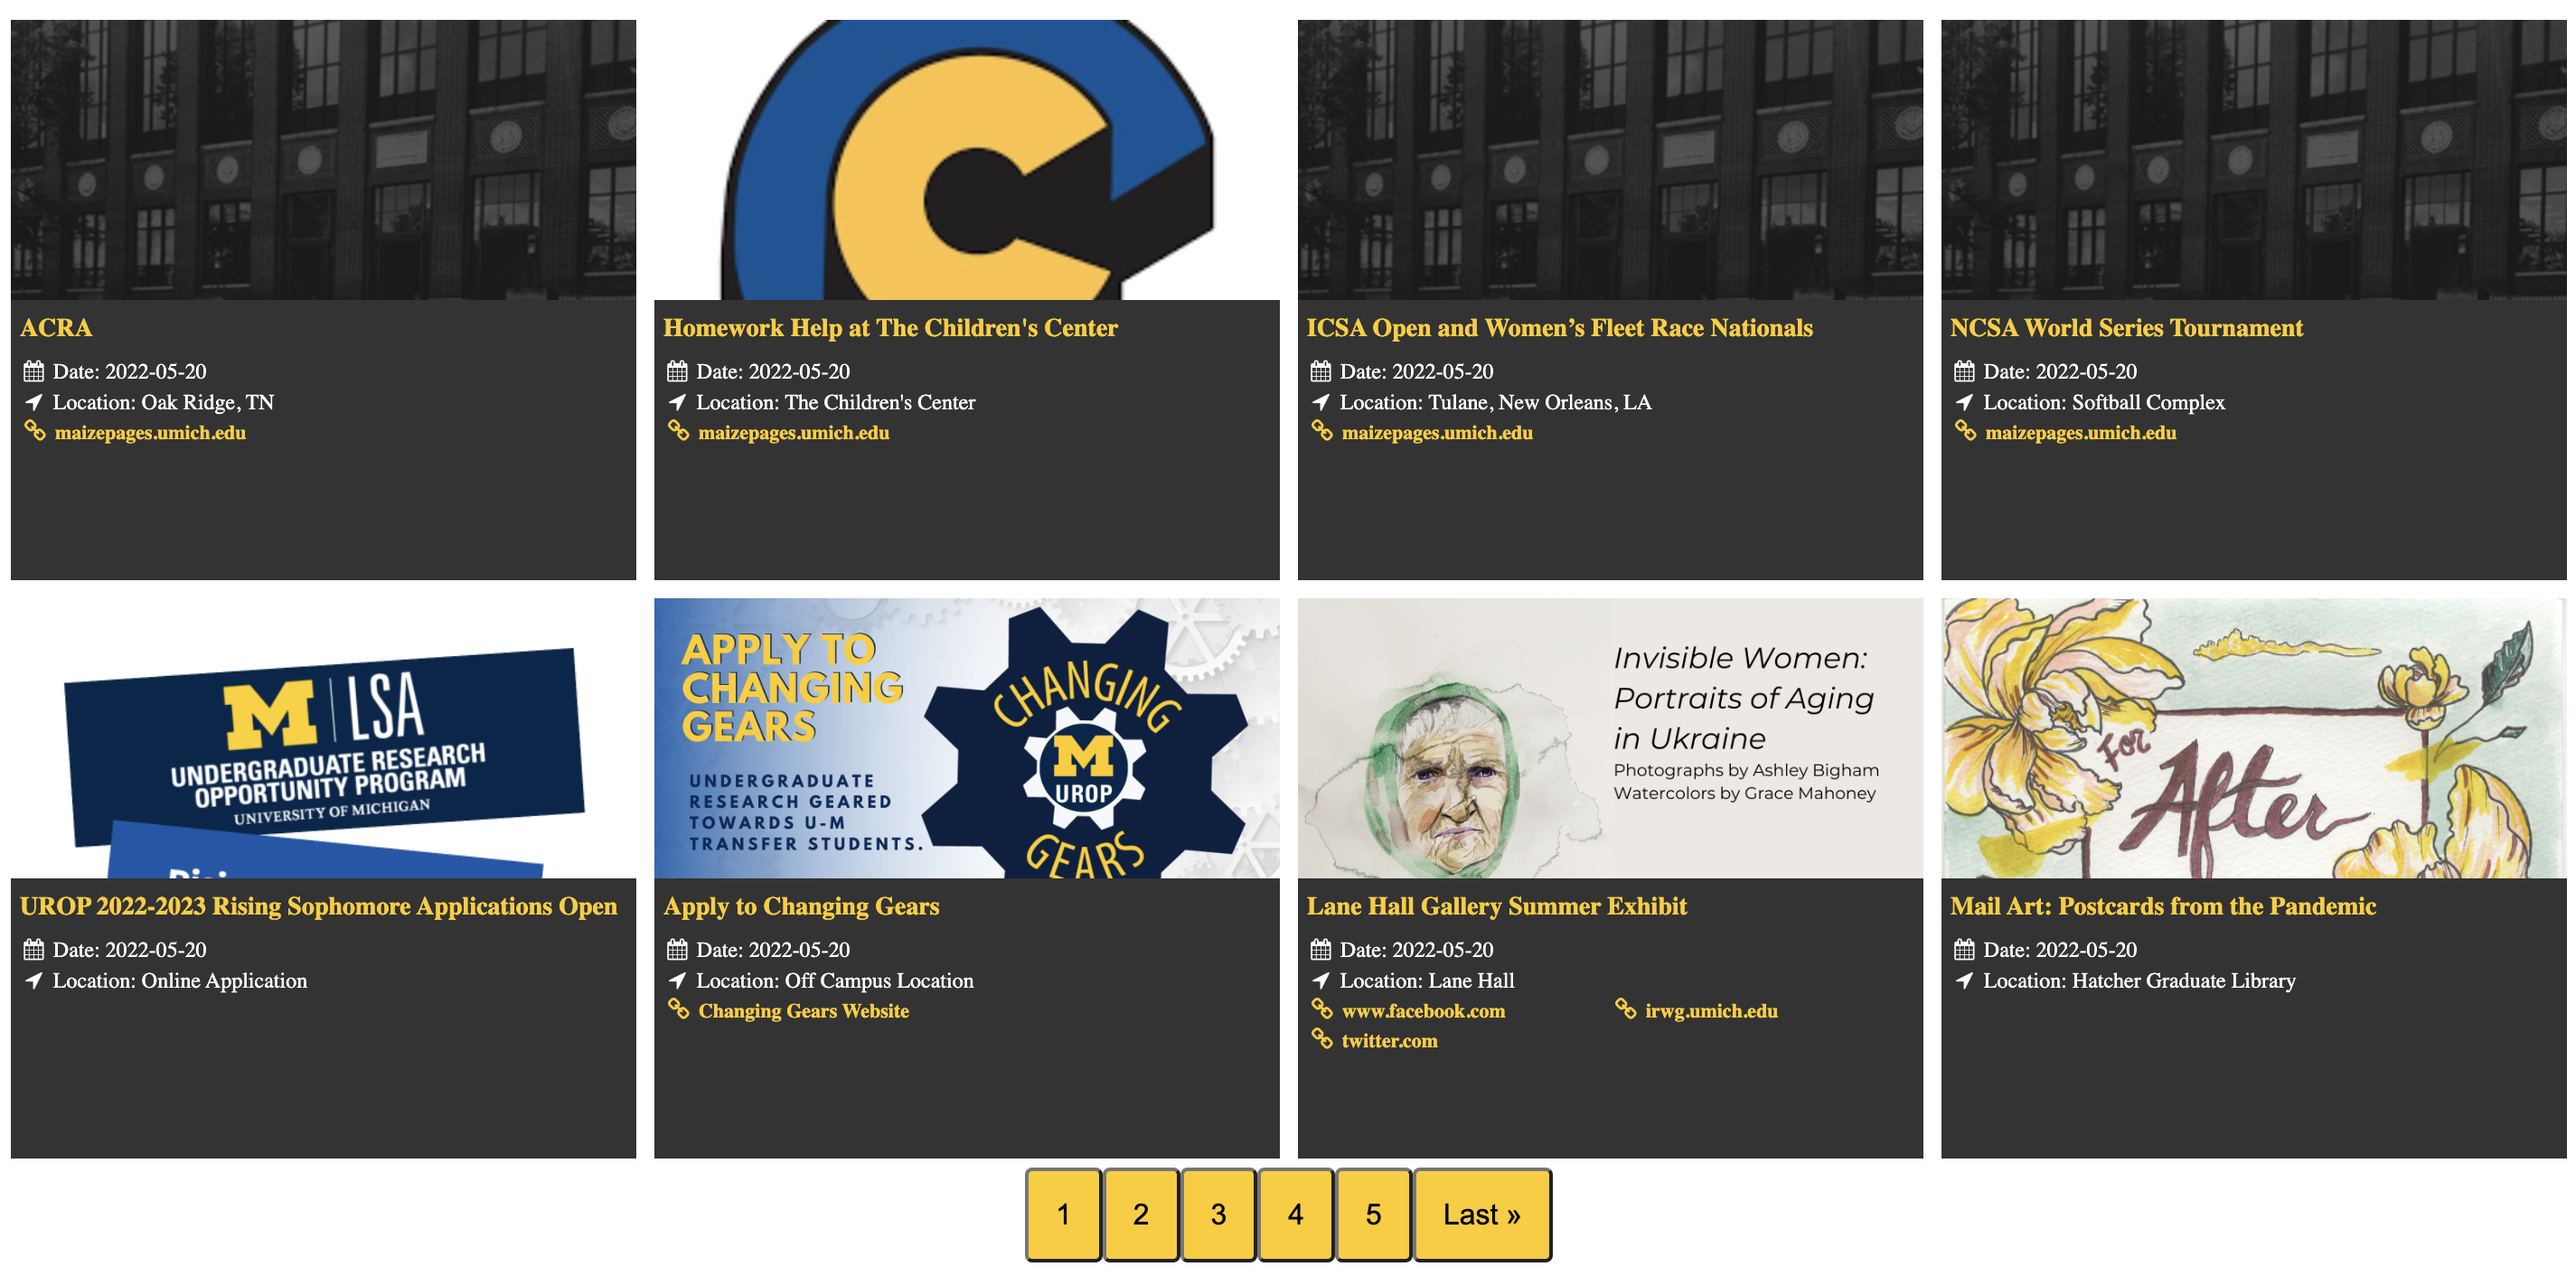
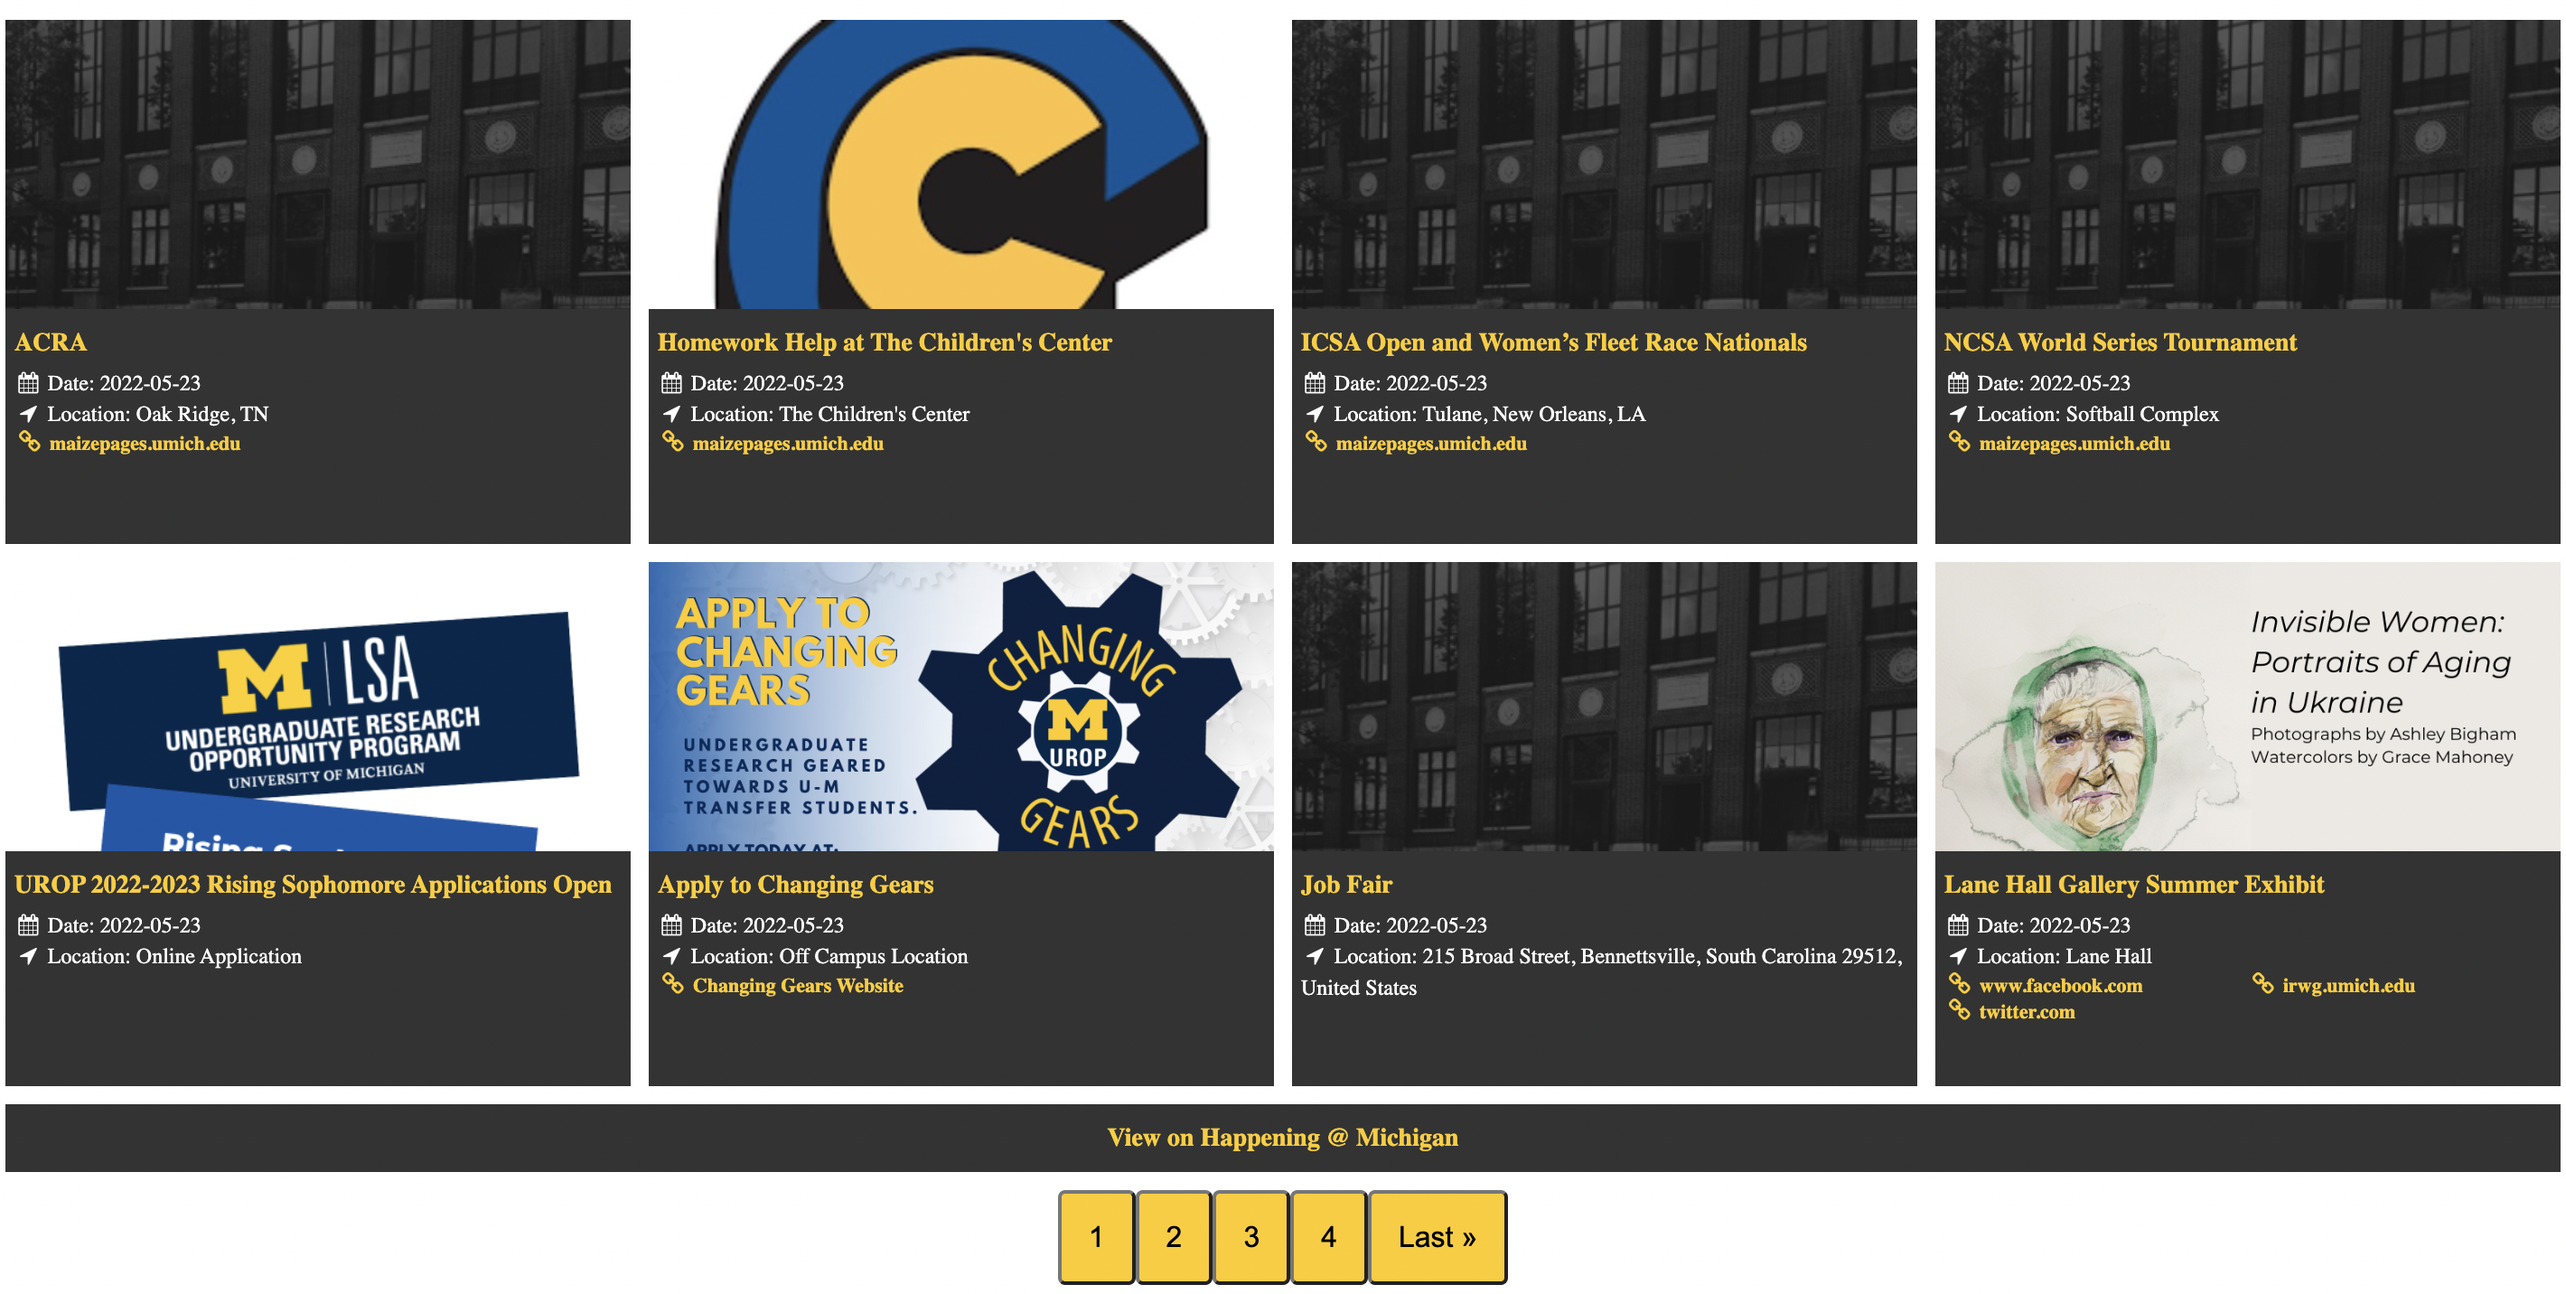
Update example image

diff --git a/README.md b/README.md
@@ -7,11 +7,13 @@ A HTML embeded event feed for [Happening @ Michigan](https://events.umich.edu/) 
 2. Copy the URL of the json file (located on the bottom of the left side bar) for that page.
 3. Open the [feedEmbededVersion.html](https://github.com/Alanhou1222/JavaScript-Feed/blob/main/feedEmbededVersion.html) file from this repo or use the following code.
 ```html
+<meta name="viewport" content="width=device-width, initial-scale=1">
 <script type="text/javascript" src="https://code.jquery.com/jquery-3.6.0.min.js"></script>
 <link rel="stylesheet" href="https://cdnjs.cloudflare.com/ajax/libs/font-awesome/4.7.0/css/font-awesome.min.css">        
-<link rel="stylesheet" href="https://cdn.jsdelivr.net/gh/Alanhou1222/JavaScript-Feed@latest/feed.css">
+<link rel="stylesheet" href="https://cdn.jsdelivr.net/gh/Alanhou1222/JavaScript-Feed@1.5.1/feed.css" integrity="sha384-PbPKZYh464YsCmDbH47sgq7j3GLtSQPuat5nogd2utGCcLkvoyWO6fnhYZ2t1e7h" crossorigin="anonymous">
 <div id="myfeed" url = "https://events.umich.edu/day/json?v=2"></div>
-<script src = "https://cdn.jsdelivr.net/gh/Alanhou1222/JavaScript-Feed@latest/feed.js"></script>
+<script src="https://cdn.jsdelivr.net/gh/Alanhou1222/JavaScript-Feed@1.5.1/feed.js" integrity="sha384-YXgibgOU+r5tI/ISK3JGr2CGl/O2rQSPdoWeO6bY2forp48hygnggAr5gI5WyYSR" crossorigin="anonymous"></script>
+
 ```
 4. Replace the url attribute of \<div id = "myfeed"\> with the URL you just copied (default URL is for [New Events Today](https://events.umich.edu/day)).
 5. Paste the whole HTML code to where you want the event feed to be.
@@ -20,12 +22,14 @@ A HTML embeded event feed for [Happening @ Michigan](https://events.umich.edu/) 
 ## Example
 
 ```html
-<!-- "New Events Today" for May 20, 2022 -->
+<!-- "New Events Today" for May 23, 2022 -->
+<meta name="viewport" content="width=device-width, initial-scale=1">
 <script type="text/javascript" src="https://code.jquery.com/jquery-3.6.0.min.js"></script>
 <link rel="stylesheet" href="https://cdnjs.cloudflare.com/ajax/libs/font-awesome/4.7.0/css/font-awesome.min.css">        
-<link rel="stylesheet" href="https://cdn.jsdelivr.net/gh/Alanhou1222/JavaScript-Feed@latest/feed.css">
+<link rel="stylesheet" href="https://cdn.jsdelivr.net/gh/Alanhou1222/JavaScript-Feed@1.5.1/feed.css" integrity="sha384-PbPKZYh464YsCmDbH47sgq7j3GLtSQPuat5nogd2utGCcLkvoyWO6fnhYZ2t1e7h" crossorigin="anonymous">
 <div id="myfeed" url = "https://events.umich.edu/day/json?v=2"></div>
-<script src = "https://cdn.jsdelivr.net/gh/Alanhou1222/JavaScript-Feed@latest/feed.js"></script>
+<script src="https://cdn.jsdelivr.net/gh/Alanhou1222/JavaScript-Feed@1.5.1/feed.js" integrity="sha384-YXgibgOU+r5tI/ISK3JGr2CGl/O2rQSPdoWeO6bY2forp48hygnggAr5gI5WyYSR" crossorigin="anonymous"></script>
+
 ```
 ![Screen Shot](/images/eventFeedExample.png)
 
